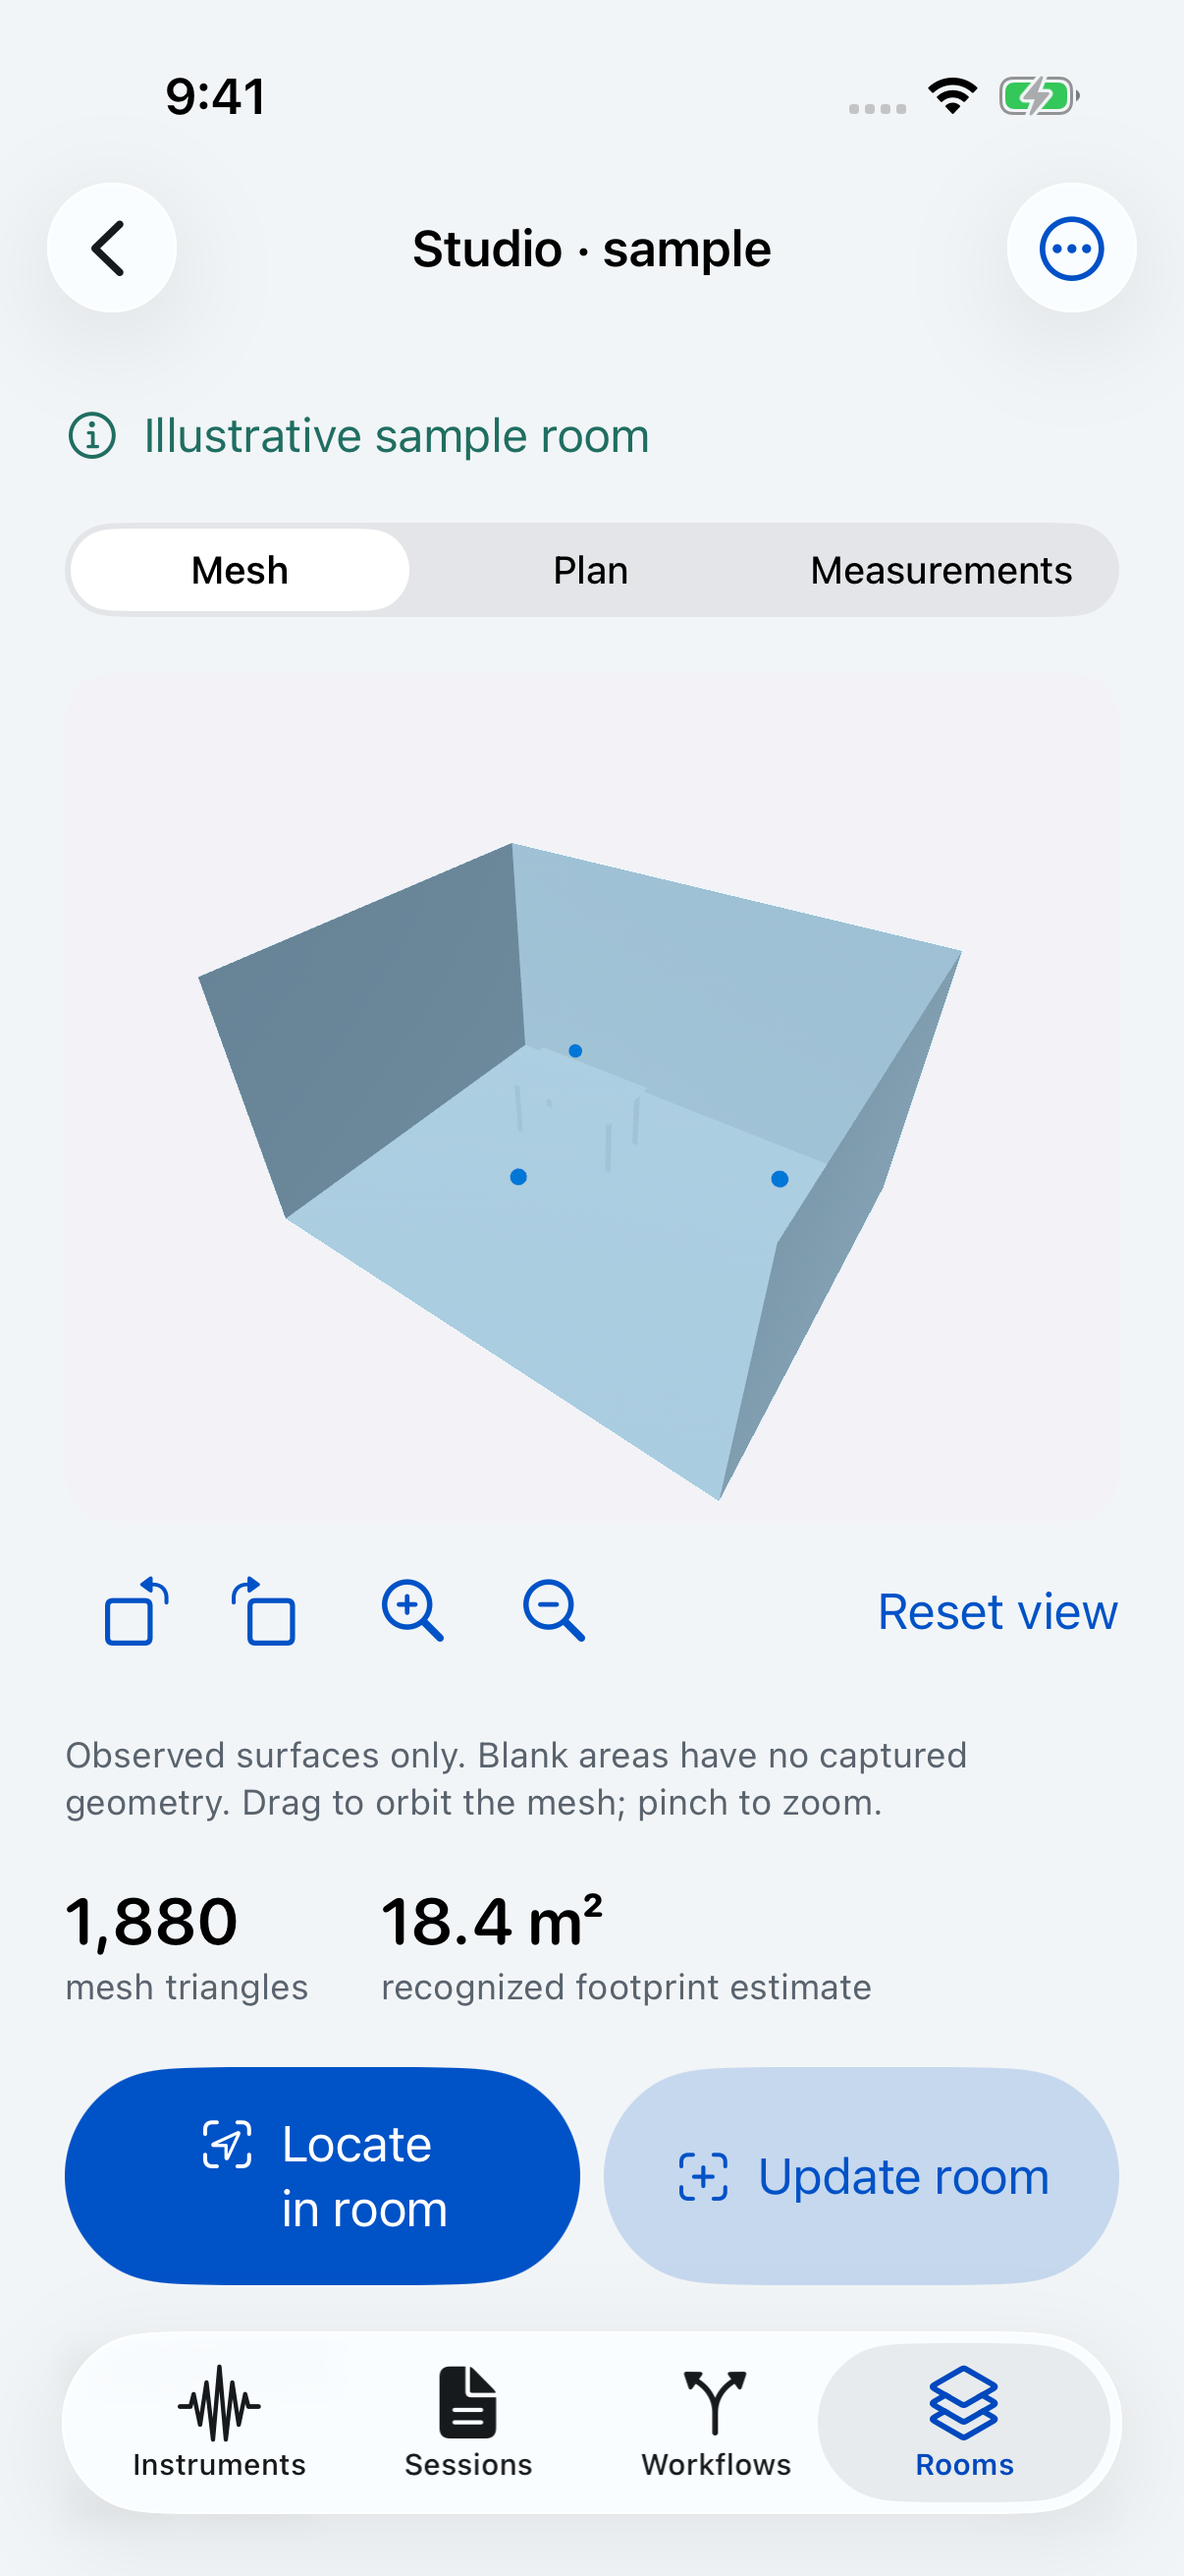
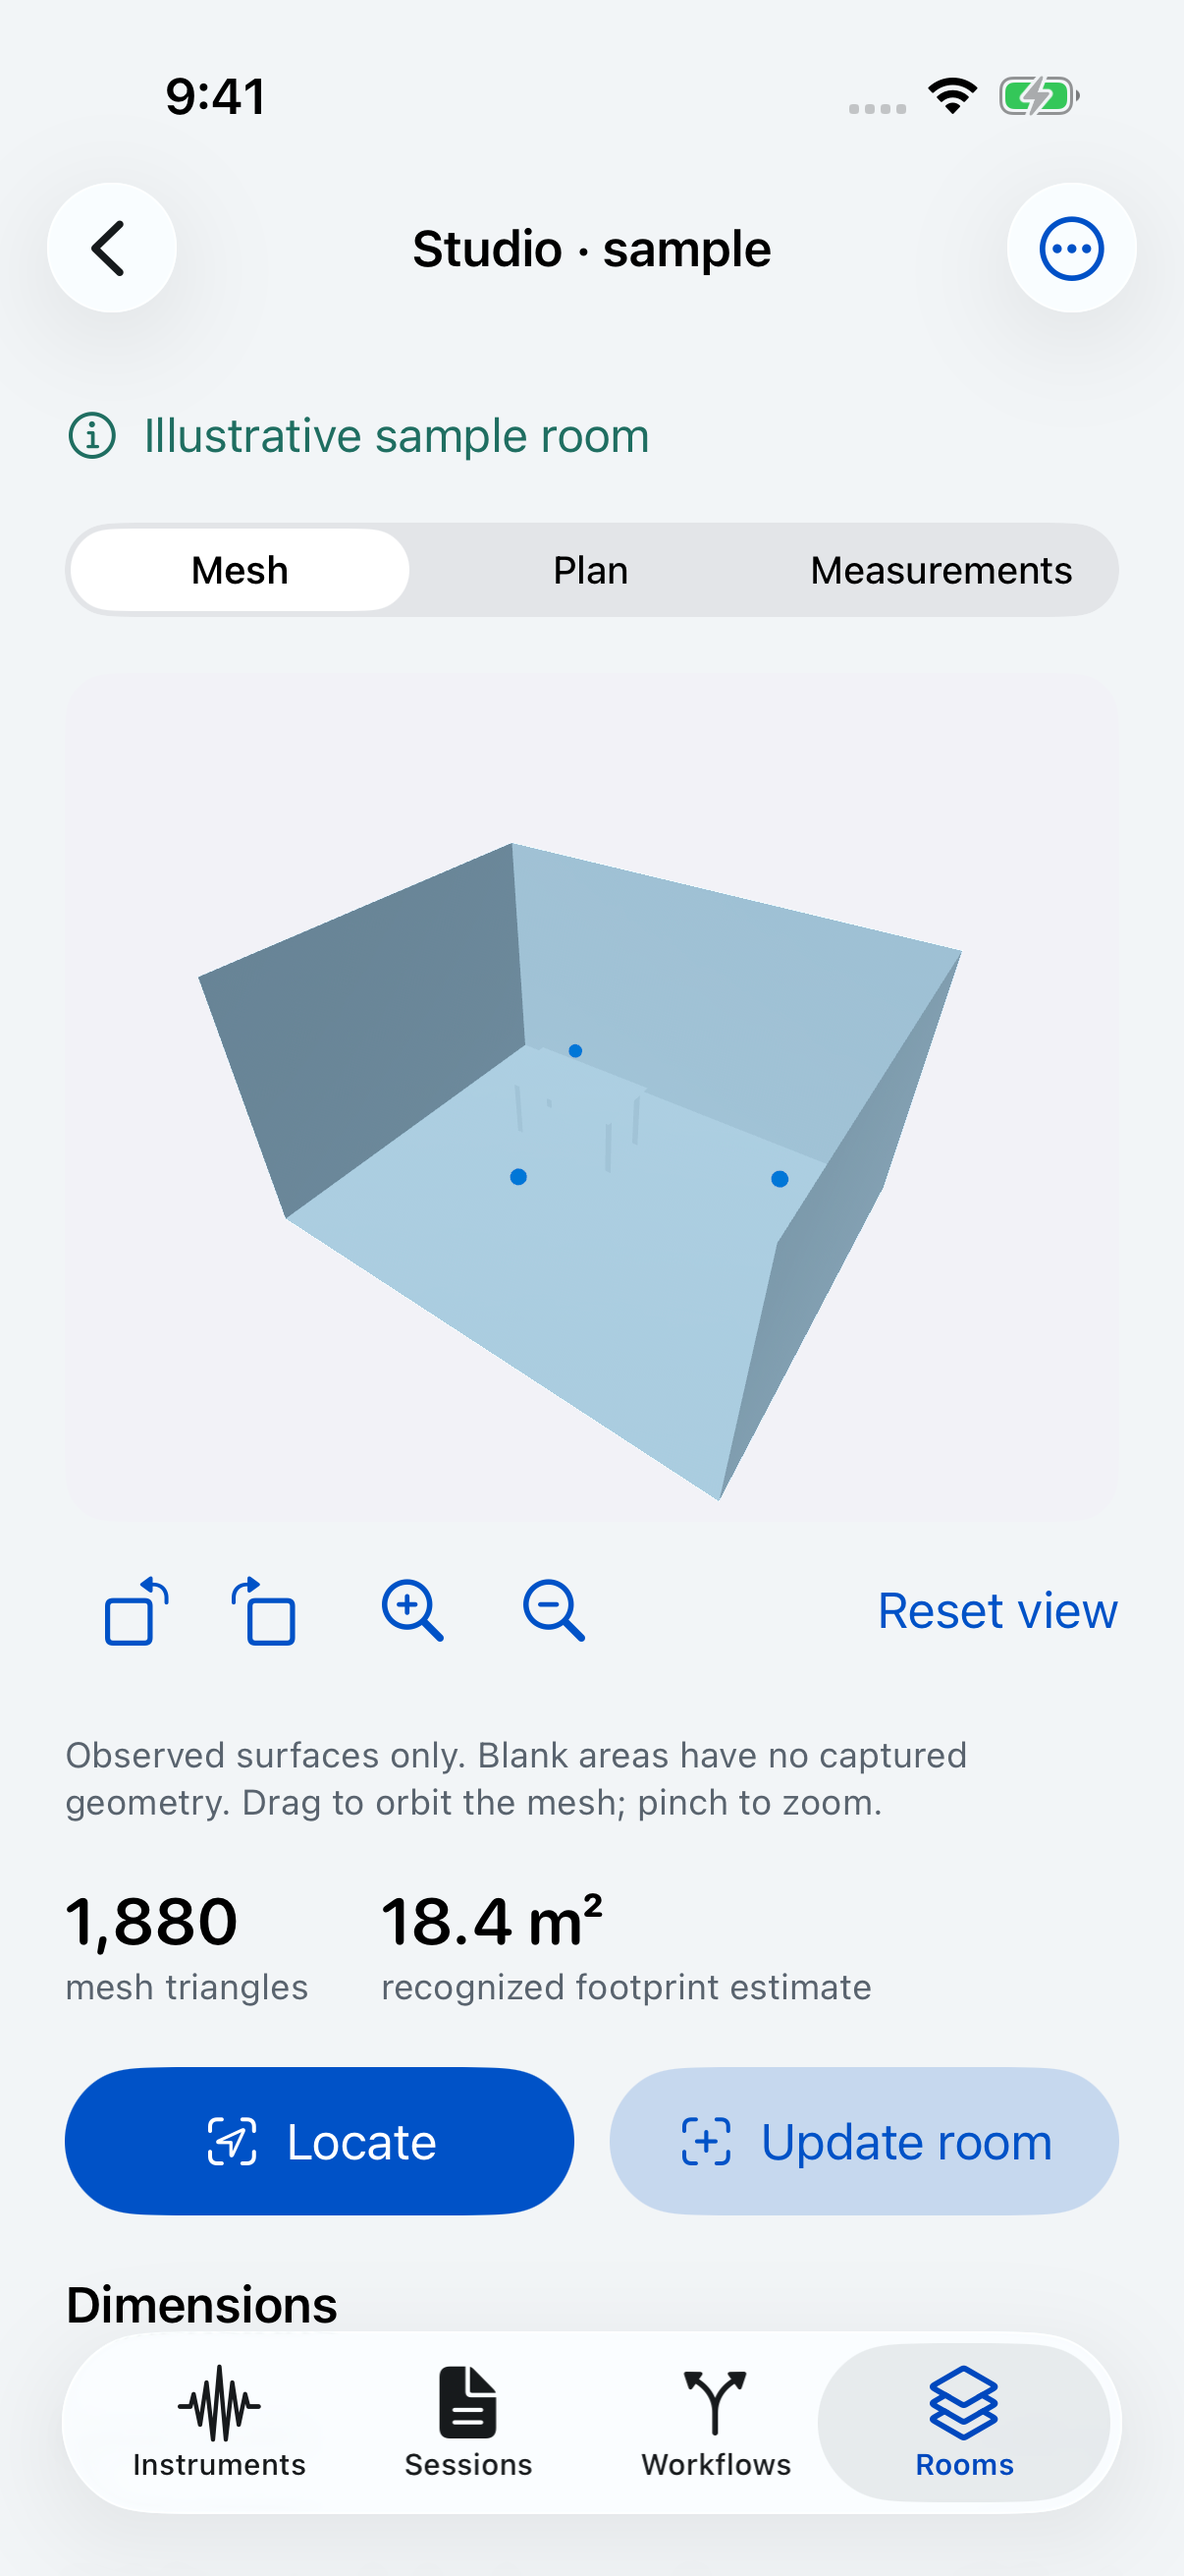
fix: Keep room actions compact and readable

Changed region(s): [[0.0307, 0.8032, 0.9511, 0.9268], [0.767, 0.6178, 0.8284, 0.6487]]

diff --git a/MagicCuts/Fieldwork/RoomsView.swift b/MagicCuts/Fieldwork/RoomsView.swift
@@ -86,6 +86,7 @@ struct RoomDetailView: View {
     @Bindable var library: ProLibrary
     @Environment(RoomSession.self) private var session
     @Environment(\.dynamicTypeSize) private var dynamicType
+    @Environment(\.horizontalSizeClass) private var horizontalSizeClass
     @State private var room: RoomRevision?
     @State private var failure: String?
     @State private var mode = 0
@@ -131,9 +132,10 @@ struct RoomDetailView: View {
                             }
                         }
                     }
-                    ViewThatFits(in: .horizontal) {
-                        HStack { locateButton(room); updateButton }
-                        VStack { locateButton(room); updateButton }
+                    if dynamicType > .large {
+                        VStack(spacing: 12) { locateButton(room); updateButton }
+                    } else {
+                        HStack(spacing: 12) { locateButton(room, compactLabel: horizontalSizeClass == .compact); updateButton }
                     }
                     if !room.dimensions.isEmpty {
                         VStack(alignment: .leading, spacing: 12) {
@@ -241,12 +243,13 @@ struct RoomDetailView: View {
             Text("Mesh").tag(0); Text("Plan").tag(1); Text("Measurements").tag(2)
         }.accessibilityIdentifier("room.display")
     }
-    private func locateButton(_ room: RoomRevision) -> some View {
-        Button { if room.worldMapData == nil { orientationUnavailable = true } else { captureMode = RoomCaptureRoute(purpose: .localize) } } label: { Label("Locate in room", systemImage: "location.viewfinder").frame(maxWidth: .infinity, minHeight: 44) }
+    private func locateButton(_ room: RoomRevision, compactLabel: Bool = false) -> some View {
+        Button { if room.worldMapData == nil { orientationUnavailable = true } else { captureMode = RoomCaptureRoute(purpose: .localize) } } label: { Label(compactLabel ? "Locate" : "Locate in room", systemImage: "location.viewfinder").fixedSize(horizontal: false, vertical: true).frame(maxWidth: .infinity) }
             .buttonStyle(.borderedProminent).controlSize(.large).tint(MC.action).disabled(session.cameraActive)
+            .accessibilityLabel("Locate in room")
     }
     private var updateButton: some View {
-        Button { captureMode = RoomCaptureRoute(purpose: .update) } label: { Label("Update room", systemImage: "plus.viewfinder").frame(maxWidth: .infinity, minHeight: 44) }
+        Button { captureMode = RoomCaptureRoute(purpose: .update) } label: { Label("Update room", systemImage: "plus.viewfinder").fixedSize(horizontal: false, vertical: true).frame(maxWidth: .infinity) }
             .buttonStyle(.bordered).controlSize(.large).disabled(session.cameraActive)
     }
     private var measurementList: some View {

diff --git a/docs/ROOM_INSTRUMENT_VALIDATION.md b/docs/ROOM_INSTRUMENT_VALIDATION.md
@@ -4,7 +4,7 @@ Implementation and validation record, September 10, 2026. Branch: `codex/room-in
 
 ## Using the feature
 
-Open **Rooms → Capture a room** on a LiDAR device. Scan visible surfaces, finish, review the mesh, name the room, and save. **Mesh**, **Plan**, and **Measurements** share dimension/component selection. Orbit, zoom, and reset have button equivalents. The plan opens measurement pins; the measurement list provides the same destinations without spatial gestures. Native sample rooms used in UI tests are explicitly marked illustrative.
+Open **Rooms → Capture a room** on a LiDAR device. Scan visible surfaces, finish, review the mesh, name the room, and save. **Mesh**, **Plan**, and **Measurements** share dimension/component selection. Orbit, zoom, and reset have button equivalents. The plan opens measurement pins; the measurement list provides the same destinations without spatial gestures. Native sample rooms used in UI tests are explicitly marked illustrative. Room actions use a compact, equal-height row at standard text sizes; iPhone labels the primary action “Locate” while VoiceOver retains “Locate in room.” Enlarged text uses stacked full-width actions.
 
 Use **Locate in room** to attempt restoration of that revision's saved AR world map. Match the reference photo and move slowly. Once tracking is reliable, choose **Use this orientation**, then open another instrument. The camera remains active and a visible orientation banner provides an **End room orientation** action. New readings keep the room, revision, coordinate frame, position, orientation, observation time, and placement method. Tracking loss clears usable position/depth instead of carrying a stale pose forward. Backgrounding ends orientation.
 
@@ -99,6 +99,8 @@ Local XCTest result bundles from this implementation run:
 - `/tmp/magiccuts-room-instruments/final-ipad-b.xcresult`: room flow and largest-text tests passed; the dark badge contrast failure was fixed and rerun successfully in `final-ipad-c.xcresult`.
 - `/tmp/magiccuts-room-instruments/build-device-review-final.log`: final signed device build.
 - `/tmp/magiccuts-room-instruments/build-release-review-final.log`: final unsigned Release build.
+- `/tmp/magiccuts-room-instruments/action-layout-phone-final.xcresult` and `action-layout-ipad.xcresult`: three UI checks per device passed after the action layout correction, covering the room flow, dark appearance and largest accessibility text.
+- `/tmp/magiccuts-room-instruments/build-action-layout-device-final.log`: signed device build passed; the corrected app was installed successfully.
 - `/tmp/magiccuts-room-instruments/physical-final.log`: physical test blocked before launch by Xcode's device-lock preflight; no scan attempted.
 
 Reproduce the software and iPhone UI suite with a booted simulator ID substituted below:
